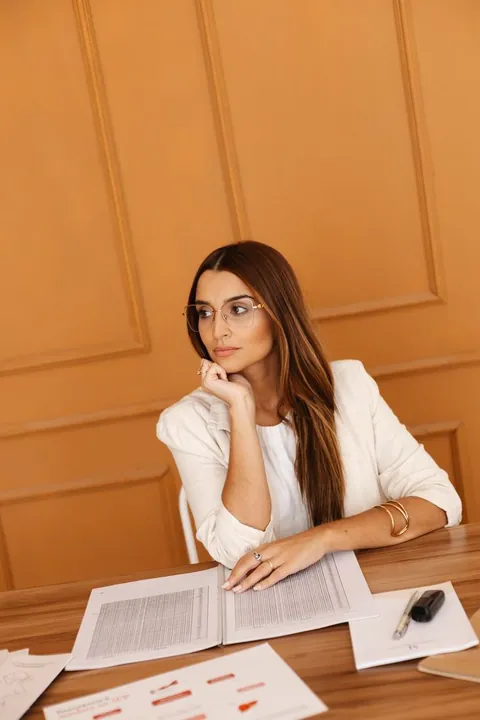
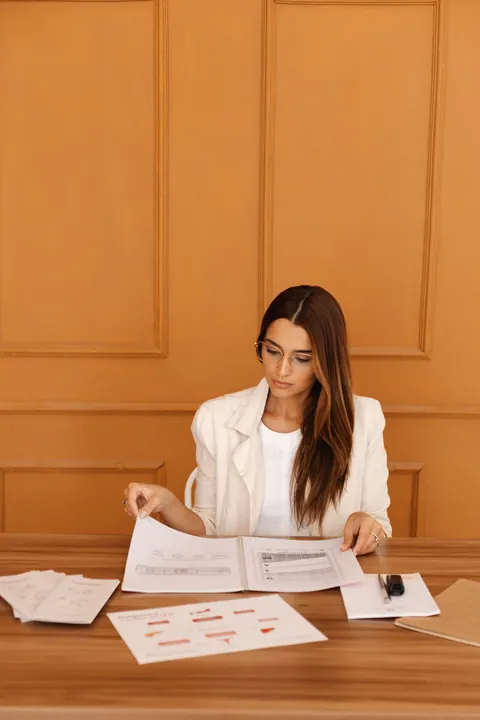
Novas fotos nas seções Sobre e Como funciona

diff --git a/site/index.html b/site/index.html
@@ -87,7 +87,7 @@
   <section id="sobre" class="band" aria-labelledby="sobre-title">
     <div class="wrap about">
       <div class="about-media">
-        <div class="art arch"><img src="/img/sobre.webp" srcset="/img/sobre-480.webp 480w, /img/sobre.webp 733w" sizes="(max-width: 900px) 100vw, 480px" alt="Marina Vaucher de blazer claro diante de uma parede terracota" style="object-position:50% 28%" loading="lazy" decoding="async"></div>
+        <div class="art arch"><img src="/img/sobre.webp" srcset="/img/sobre-480.webp 480w, /img/sobre.webp 1333w" sizes="(max-width: 900px) 100vw, 480px" alt="Marina Vaucher de óculos e blazer claro, olhando para o lado, diante de uma parede clara" style="object-position:50% 30%" loading="lazy" decoding="async"></div>
         <div class="tag"><small>Registro</small><strong>CRN 15651</strong></div>
       </div>
       <div class="about-text">
@@ -130,7 +130,7 @@
     <div class="wrap">
       <div class="process">
         <div class="process-media">
-          <div class="art soft"><img src="/img/consulta.webp" srcset="/img/consulta-480.webp 480w, /img/consulta.webp 733w" sizes="(max-width: 900px) 100vw, 480px" alt="Marina Vaucher analisando exames em sua mesa de trabalho" style="object-position:50% 40%" loading="lazy" decoding="async"></div>
+          <div class="art soft"><img src="/img/consulta.webp" srcset="/img/consulta-480.webp 480w, /img/consulta.webp 1333w" sizes="(max-width: 900px) 100vw, 480px" alt="Marina Vaucher analisando exames em sua mesa de trabalho" style="object-position:50% 58%" loading="lazy" decoding="async"></div>
         </div>
         <div>
           <div class="band-head">

diff --git a/src/inicio.html b/src/inicio.html
@@ -33,7 +33,7 @@
   <section id="sobre" class="band" aria-labelledby="sobre-title">
     <div class="wrap about">
       <div class="about-media">
-        <div class="art arch"><img src="/img/sobre.jpg" alt="Marina Vaucher de blazer claro diante de uma parede terracota" style="object-position:50% 28%"></div>
+        <div class="art arch"><img src="/img/sobre.jpg" alt="Marina Vaucher de óculos e blazer claro, olhando para o lado, diante de uma parede clara" style="object-position:50% 30%"></div>
         <div class="tag"><small>Registro</small><strong>CRN 15651</strong></div>
       </div>
       <div class="about-text">
@@ -76,7 +76,7 @@
     <div class="wrap">
       <div class="process">
         <div class="process-media">
-          <div class="art soft"><img src="/img/consulta.jpg" alt="Marina Vaucher analisando exames em sua mesa de trabalho" style="object-position:50% 40%"></div>
+          <div class="art soft"><img src="/img/consulta.jpg" alt="Marina Vaucher analisando exames em sua mesa de trabalho" style="object-position:50% 58%"></div>
         </div>
         <div>
           <div class="band-head">
